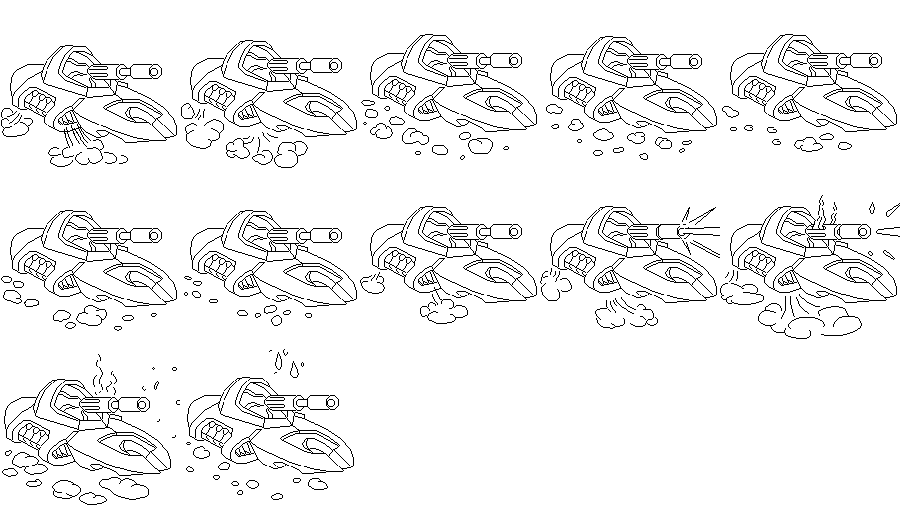
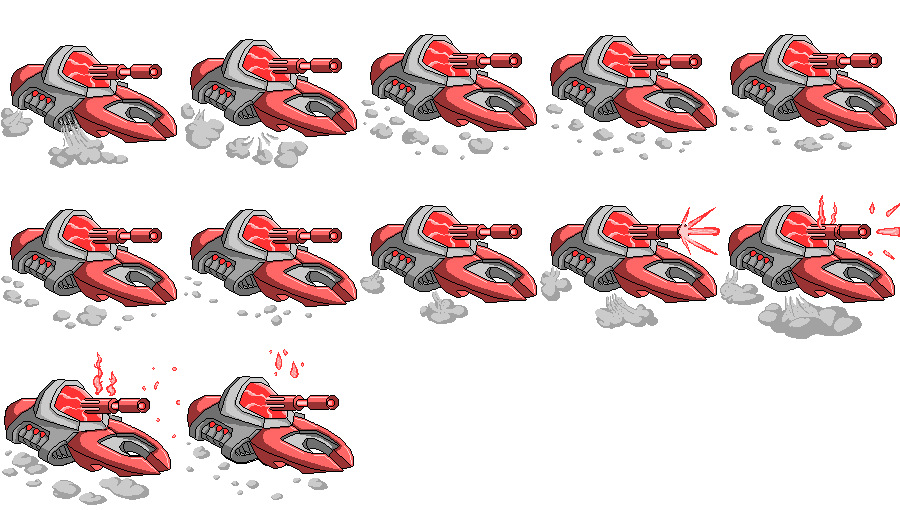
* Updated Empire units sprites. * Updated AI Waiting & End Turn buttons sprites.

diff --git a/MobileClient/www/Assets/Game.css b/MobileClient/www/Assets/Game.css
@@ -98,7 +98,7 @@
 {
 	position: relative;
 	top: 10px;
-	left: 6px;
+	left: 2px;
 }
 
 
@@ -115,20 +115,13 @@
 	right: 0px;
 	bottom: 0px;
 	
-	background-image: url('UI/Elements/End_turn_HUD.png');
+	background-image: url('UI/Elements/End_turn_HUD-hourglass.png');
 	width: 107px;
 	height: 74px;
 	
 	color: white;
 	text-align: center;
 	text-transform: uppercase;
-}
-
-#BtnAIWaiting span
-{
-	position: relative;
-	top: 10px;
-	left: 6px;
 }
 
 #AIToolbarDebug

diff --git a/MobileClient/www/index.html b/MobileClient/www/index.html
@@ -245,7 +245,7 @@
 				<div id="AIToolbar" class="in_game_toolbar">
 					<div id="LbAIName"></div>
 					<div id="BtnAIFastForward"><span>&gt;&gt;</span></div>
-					<div id="BtnAIWaiting"><span>W8</span></div>
+					<div id="BtnAIWaiting"></div>
 
 					<div id="AIToolbarDebug">
 						<button id="BtnAISlower">-</button>
